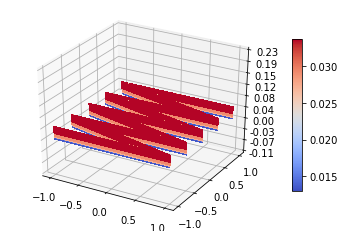
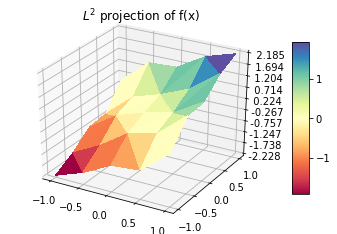
fin

diff --git a/poltall.py b/poltall.py
@@ -32,18 +32,36 @@ def delunay_tri(M):
     ax2.spy(M)
     plt.show()
 
-def poltall(x,y,z):
+def poltall(x,y,zt):
+
+
+    U = np.zeros(len(zt))
+
+    for i in range(len(zt)):
+        U[i] = zt[i][0]
+
     fig = plt.figure()
     ax = fig.gca(projection='3d')
-    #f = func(p[0,:], p[1,:])
-    # Plot the surface.
-    surf = ax.plot_surface(x, y, z, cmap=cm.coolwarm,
-                      linewidth=0, antialiased=False)
+    z =U
+    surf = ax.plot_trisurf(x, y, z, cmap=cm.Spectral,linewidth=0, antialiased=False)
     # Customize the z axis.
-    ax.set_zlim(-0.11, 0.23)
     ax.zaxis.set_major_locator(LinearLocator(10))
-    ax.zaxis.set_major_formatter(FormatStrFormatter('%.02f'))
-   
-    fig.colorbar(surf, shrink=0.7, aspect=15)
+    ax.zaxis.set_major_formatter(FormatStrFormatter('  %.03f'))
+    # Add a color bar which maps values to colors.
+    fig.colorbar(surf, shrink=0.7, aspect=9)
     plt.title('$L^2$ projection of f(x)')
-    plt.show()
+    plt.show() 
+#    
+#    fig = plt.figure()
+#    ax = fig.gca(projection='3d')
+#    #f = func(p[0,:], p[1,:])
+#    # Plot the surface.
+#    surf = ax.plot_surface(x, y, z, cmap=cm.coolwarm,
+#                      linewidth=0, antialiased=False)
+#    # Customize the z axis.
+#    ax.set_zlim(-0.11, 0.23)
+#    ax.zaxis.set_major_locator(LinearLocator(10))
+#    ax.zaxis.set_major_formatter(FormatStrFormatter('%.02f'))
+#   
+#    fig.colorbar(surf, shrink=0.7, aspect=15)
+#    plt.show()

diff --git a/L2projection2D.py b/L2projection2D.py
@@ -41,7 +41,8 @@ def massmat(p,t):
 
 # The given function
 def func(x,y):
-    return np.sin(np.sqrt(x**2 + y**2))
+    return y + x
+#np.sin(np.sqrt(x**2+ y**2))
 
 
 # This laod vector function evaluation.
@@ -71,7 +72,7 @@ b = LoadVec2D(p,t)
 pf =  np.linalg.inv(M)@b
 
 
-print('The Mass Matrix(M) = \n',M)
+#print('The Mass Matrix(M) = \n',M)
 print('\nThe load vector (b)= \n',b)
 print('\nThe L2 Projection (pf) of the given function f(x) is: \n',pf)
 print('\n=======================================\n')
@@ -79,5 +80,5 @@ print('The total number of nodes = ',p.shape[1])
 print('The total number of elements = ', t.shape[1])
 print('\n=======================================\n')
 
-delunay_tri(M)
-poltall(x = p[0,:],y = p[1,:], z = pf)
+#delunay_tri(M)
+poltall(x = p[0,:],y = p[1,:], zt = pf)
